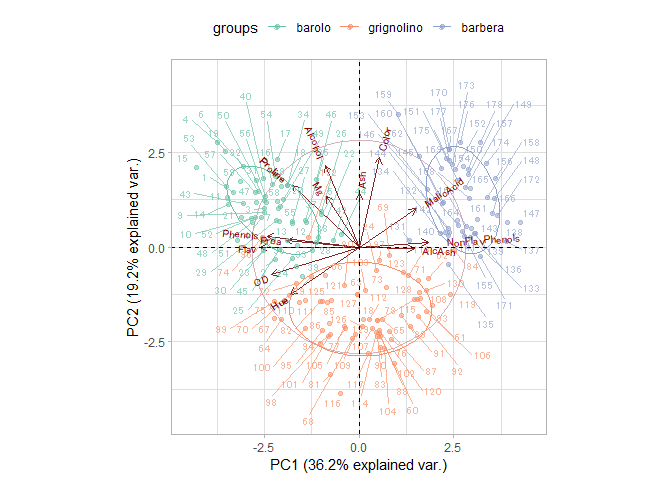
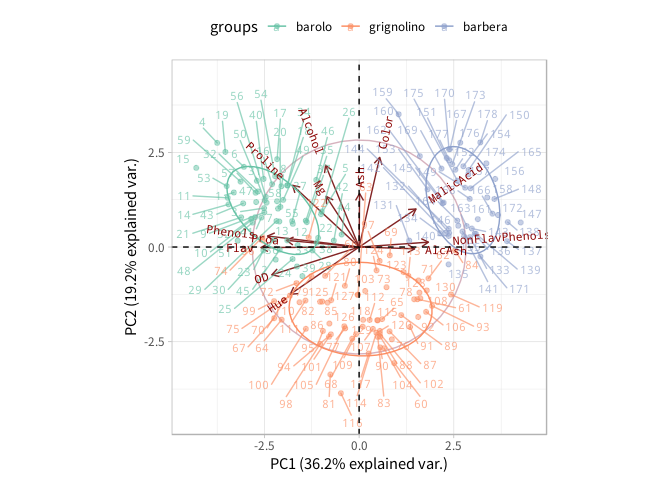
Update README

diff --git a/README.md b/README.md
@@ -1,20 +1,26 @@
 <!-- README.md is generated from README.Rmd. Please edit that file -->
-**ATTENTION**  
-パッケージをpre-releaseしました。以下のコマンドでインストールできます。  
-> devtools::install_github("k-metrics/ggbiplot")
+**NEW**  
+パッケージをpre-releaseしました。以下のコマンドでインストールできます。お問い合わせなどはissue
+boradからお願いします。
+
+> devtools::install\_github(“k-metrics/ggbiplot”)
 
 **ABOUT**  
-本リポジトリは3年以上開発が行われていない [vqv/ggbiplot v0.55](https://github.com/vqv/ggbiplot) リポジトリをフォークし [nyubachi/ggbiplot](https://github.com/nyubachi/ggbiplot) リポジトリでの修正を参考にしています。
+本リポジトリは3年以上開発が行われていない [vqv/ggbiplot
+v0.55](https://github.com/vqv/ggbiplot) リポジトリをフォークし
+[nyubachi/ggbiplot](https://github.com/nyubachi/ggbiplot)
+リポジトリでの修正を参考にしています。
 
 主な変更点
 ==========
 
-v0.55.1 - update ggbiplot.r
+v0.55.1 - ggbiplot.r
 --------------------
 
 -   日本語フォントを指定てきるように以下のパラメータを追加
     -   `base_family` - ggplot2のテーマに対するフォント指定
-    -   `family` - 変数名やラベル名などのテキスト描画関数に対するフォント指定
+    -   `family` -
+        変数名やラベル名などのテキスト描画関数に対するフォント指定
 -   ラベルを表示しない場合にIDを表示できるように以下のパラメータを追加
     -   `id` - プロットする（`TRUE`）/しない（`FALSE`, デフォルト）
 -   ラベル表示に`ggreple`パッケージを用いることでラベルが重なることを防止
@@ -27,9 +33,11 @@ v0.55.1 - update ggbiplot.r
 ggbiplot
 ========
 
-An implementation of the biplot using ggplot2. The package provides two functions: `ggscreeplot()` and `ggbiplot()`. `ggbiplot` aims to be a drop-in replacement for the built-in R function `biplot.princomp()` with extended functionality for labeling groups, drawing a correlation circle, and adding Normal probability ellipsoids.
-
-*The development of this software was supported in part by NSF Postdoctoral Fellowship DMS-0903120*
+An implementation of the biplot using ggplot2. The package provides two
+functions: `ggscreeplot()` and `ggbiplot()`. `ggbiplot` aims to be a
+drop-in replacement for the built-in R function `biplot.princomp()` with
+extended functionality for labeling groups, drawing a correlation
+circle, and adding Normal probability ellipsoids.
 
 Installation
 ------------
